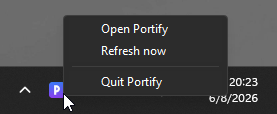
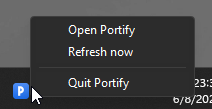
🚀 release: prepare v0.1.0
Dates the changelog entry and updates the tray screenshot, which still
showed the icon from the Python version — the Windows working copy had been
a manual mirror and never received the regenerated icons. It is a real
checkout now, so that class of drift is gone.

Measured on the new screenshot: hue 216°–218° across the icon, against a
265° maximum before. No violet left.

diff --git a/CHANGELOG.md b/CHANGELOG.md
@@ -2,7 +2,7 @@
 
 All notable changes to Portify. Format based on [Keep a Changelog](https://keepachangelog.com/en/1.1.0/); versioning follows [Semantic Versioning](https://semver.org/).
 
-## [0.1.0] — unreleased
+## [0.1.0] — 2026-08-07
 
 Ground-up rewrite in Rust. The Python version (tagged `v1.0.0`) is gone; nothing carries over but the name and the icon.
 
